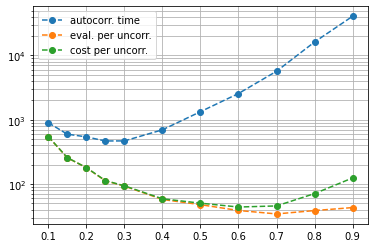
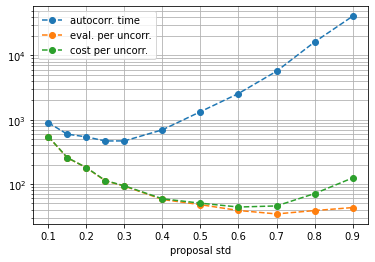
Img for Alg2020
autocorr xlabel

Changed region(s): [[0.0, 0.0, 0.9973, 0.9879]]

diff --git a/other_files/plots_poster_algoritmy.py b/other_files/plots_poster_algoritmy.py
@@ -33,6 +33,7 @@ plt.yscale("log")
 # plt.xscale("log")
 plt.grid(which="both")
 plt.legend(['autocorr. time','eval. per uncorr.','cost per uncorr.'])
+plt.xlabel('proposal std')
 plt.show()
 
 # MH proposal std:
@@ -46,4 +47,5 @@ plt.yscale("log")
 # plt.xscale("log")
 plt.grid(which="both")
 plt.legend(['autocorr. time','eval. per uncorr.','cost per uncorr.'])
+plt.xlabel('proposal std')
 plt.show()
